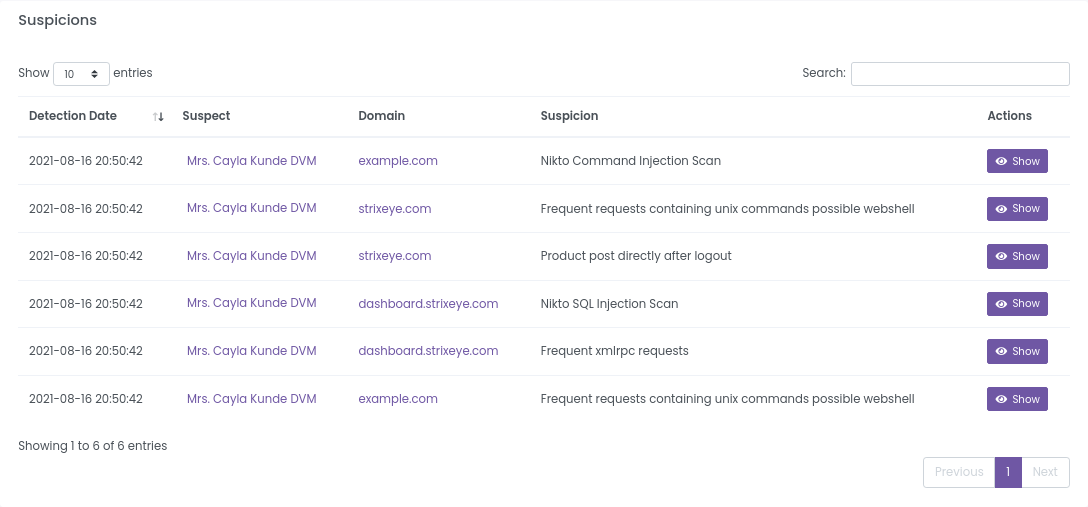
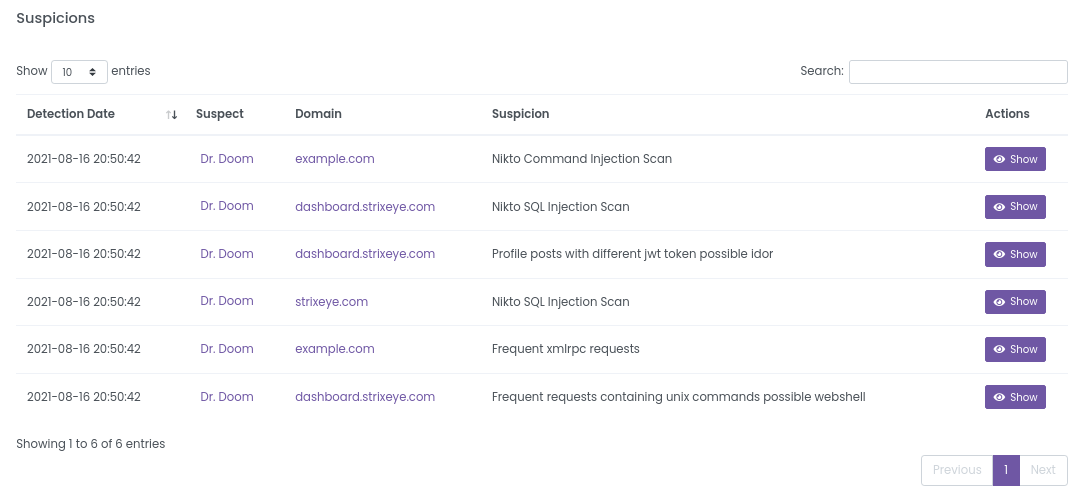
update suspects page

diff --git a/docs/in-depth_dashboard/suspects.md b/docs/in-depth_dashboard/suspects.md
@@ -2,6 +2,12 @@
 
 Our goal is to detect a Suspect from its behavior, even if it uses VPN, changes browser, changes IP, or uses Tor. You can see the details of the Suspect on the Suspect page. 
 
+## Index Page
+
+[Suspects](https://dashboard.strixeye.com/suspects) page lists all detected suspects.
+
+![agent name and agent domains](../assets/images/suspects.png)
+
 ## Edit Name
 Suspect names are randomly generated. If a suspect has caught your attention, you can change its name to make it easier to follow it.
 
